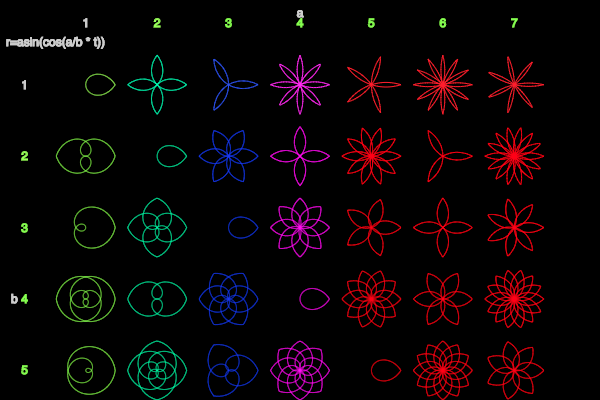
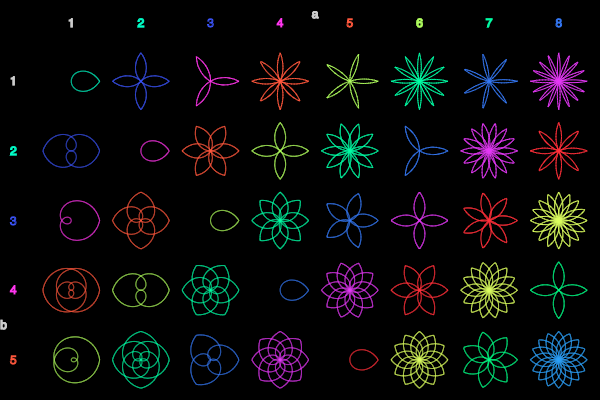
New version lotus

diff --git a/sketches/lotusrosettes/lotusrosettes.js b/sketches/lotusrosettes/lotusrosettes.js
@@ -58,7 +58,7 @@ function draw() {
                 
                 x = cx + r * asin(cos(1.0 * a / b * t)) * cos(t);
                 y = cy + r * asin(cos(1.0 * a / b * t)) * sin(t);
-                stroke(cx, cy, 100);
+                stroke((cx + cy) % 360, 80, 100);
                 vertex(x, y);
                 
                 if ((abs(x - ox) + abs(y - oy) < 0.05) && (t > TWO_PI / 150)) {
